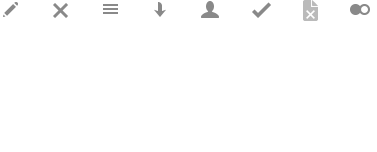
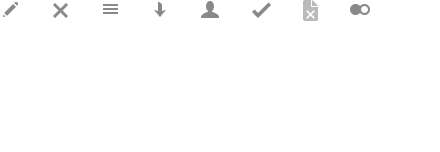
code polish

diff --git a/app/assets/stylesheets/bhf/application.css.sass b/app/assets/stylesheets/bhf/application.css.sass
@@ -137,7 +137,25 @@ header
     padding: 9px 20px
     background: #dbdbdb
 
-
+#area_select
+  -webkit-appearance: none
+  -moz-appearance: none
+  -ms-appearance: none
+  appearance: none
+  outline: 0
+  border: 0
+  float: right
+  padding: 4px
+  border-radius: 0
+  width: 34px
+  color: white
+  text-indent: -300px
+  margin-top: 32px
+  font-size: 15px
+  cursor: pointer
+  background-color: transparent
+  background-position: -393px 0
+  
 
 
 #content
@@ -1135,11 +1153,11 @@ input[type="submit"].alt_button,
 @media screen and (-webkit-min-device-pixel-ratio: 1.5), screen and (min--moz-device-pixel-ratio: 1.5), screen and (min-device-pixel-ratio: 1.5)
   .icon
     background-image: image-url('bhf/pictos_2x.png')
-    background-size: 377px 152px
+    background-size: 440px 152px
   #content
     .quick_edit_holder
       .group
         button
           &.save_and_next
             background-image: image-url('bhf/pictos_2x.png')
-            background-size: 377px 152px
+            background-size: 440px 152px

diff --git a/lib/bhf/pagination.rb b/lib/bhf/pagination.rb
@@ -1,3 +1,14 @@
+Kaminari::Helpers::Tag.class_eval do
+  def page_url_for(page)
+    if @param_name.is_a?(Array)
+      @params[@param_name[0]] = (@params[@param_name[0]] || {}).merge(@param_name[1] => (page <= 1 ? 1 : page))
+      return @template.url_for @params
+    end
+
+    @template.url_for @params.merge(@param_name => (page <= 1 ? 1 : page))
+  end
+end
+
 module Bhf
 
   class Pagination
@@ -15,7 +26,7 @@ module Bhf
 
       links = if !(page_links = template.paginate(platform.objects, {
         theme: 'bhf',
-        param_name: "#{platform.name}[page]",
+        param_name: [platform.name, :page],
         params: template.params
       })).blank?
         "#{load_more(platform)} #{page_links}"
